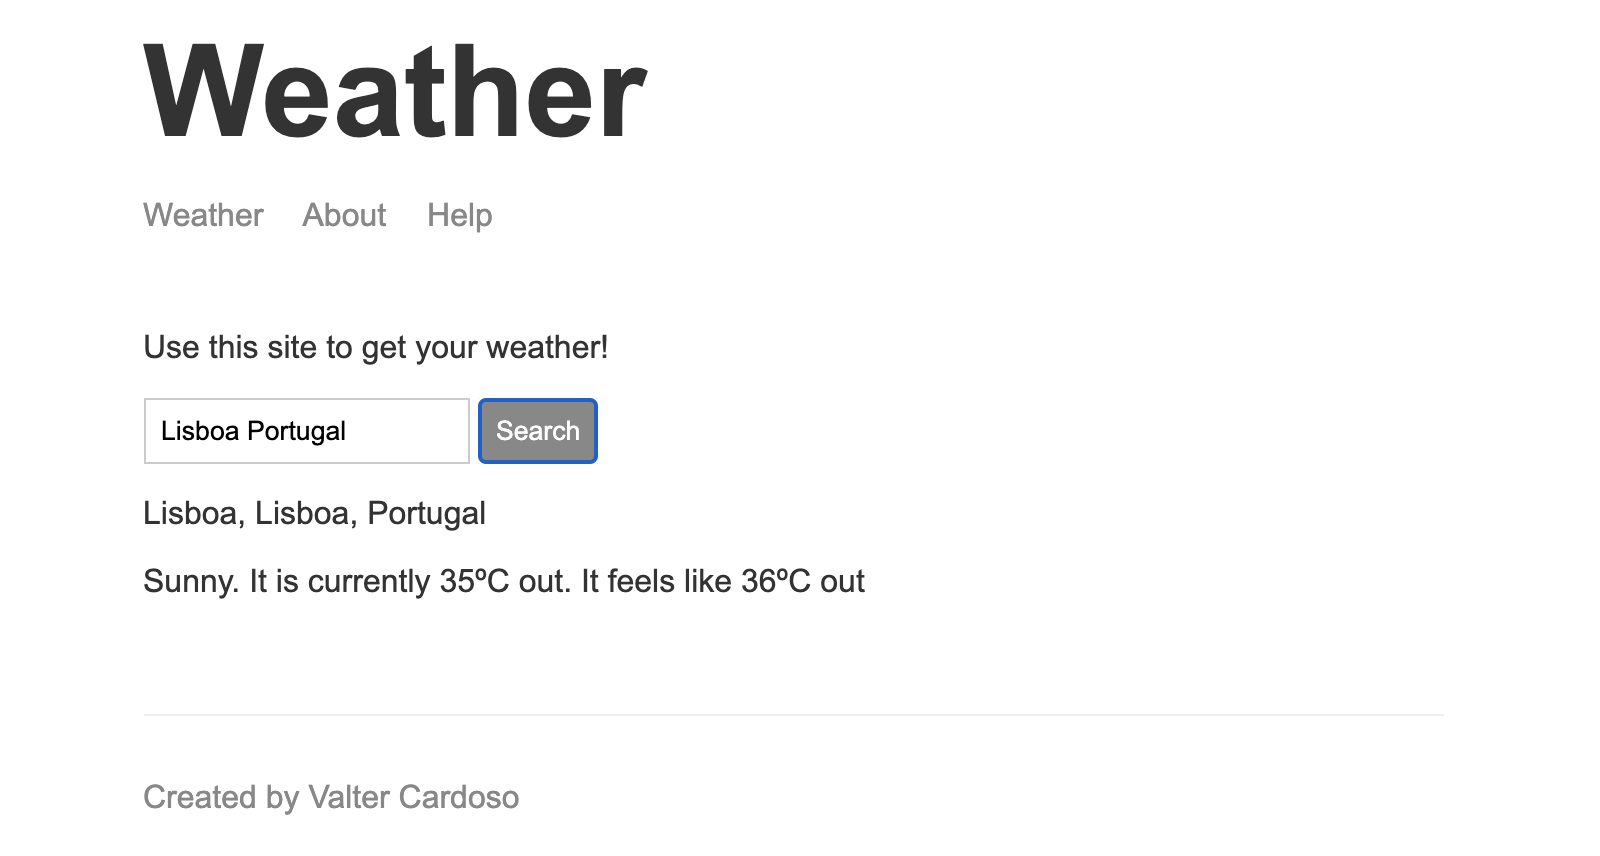
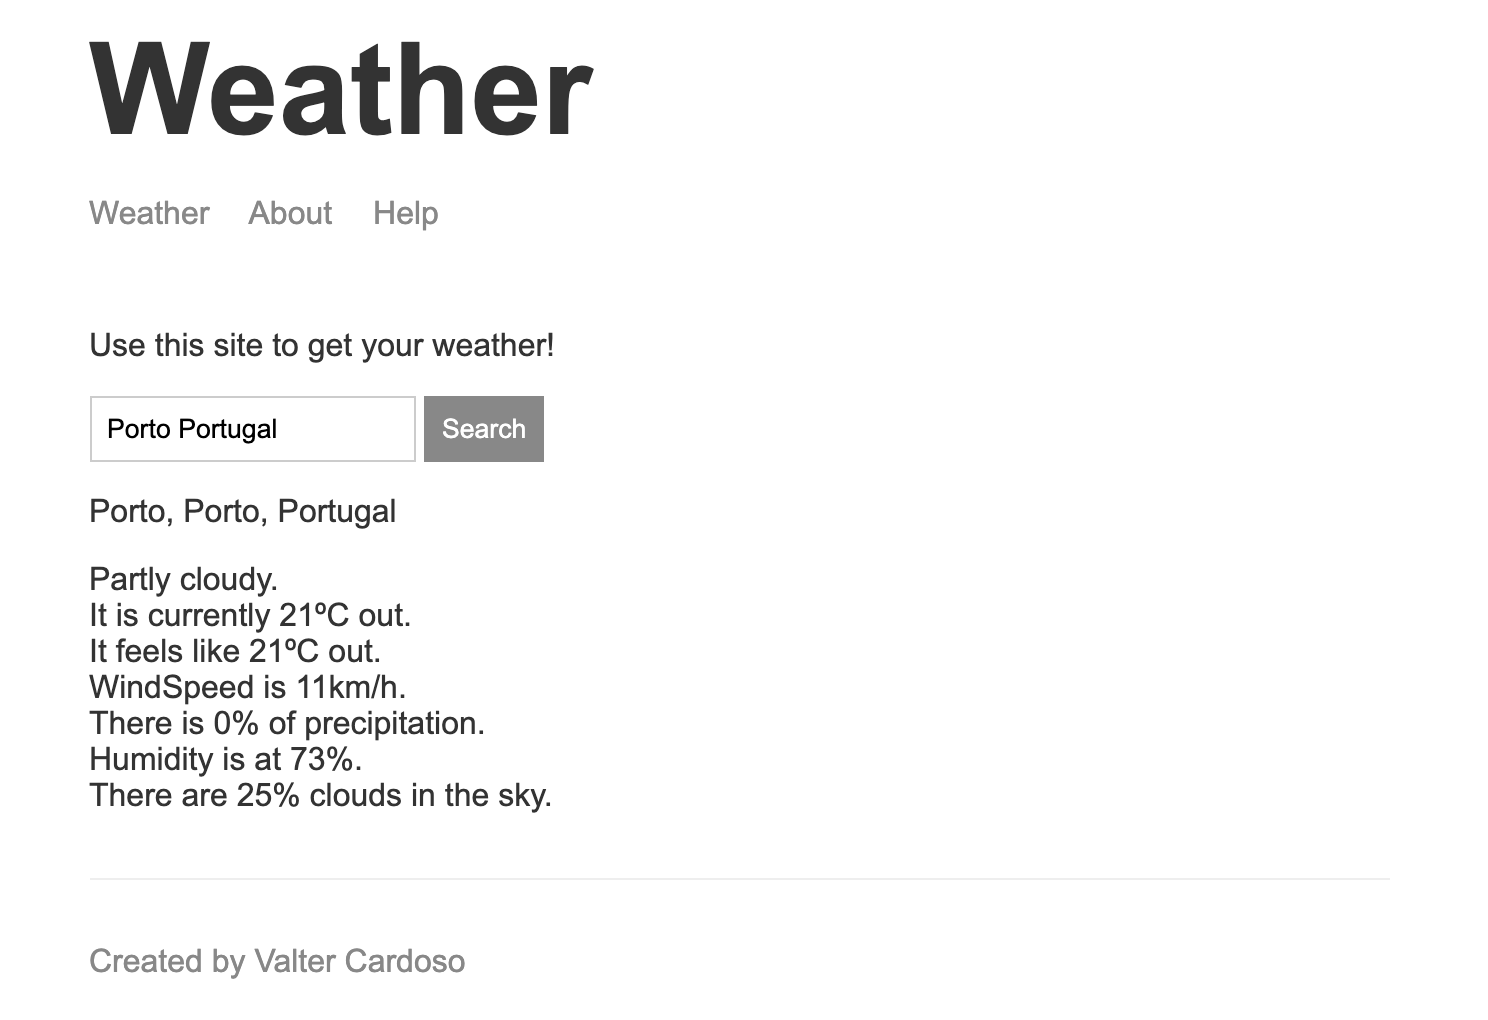
updated text format and readme

diff --git a/public/css/styles.css b/public/css/styles.css
@@ -53,3 +53,8 @@ button {
     color: white;
     padding: 8px;
 }
+
+pre {
+    color: #333333;
+    font-family: Arial, Helvetica, sans-serif;
+}

diff --git a/README.md b/README.md
@@ -21,7 +21,6 @@ The fun of this study was made possible by:
 - [Node.js Complete course](https://www.udemy.com/course/the-complete-nodejs-developer-course-2/) in [Udemy](https://www.udemy.com/)
 - [Node.js](https://nodejs.org/en/) Official Site
 - [npm](https://www.npmjs.com) Official Site
-- [npm](https://www.npmjs.com) Official Site
 - [handlebarsjs](https://handlebarsjs.com/) Official Site
 - Andrew Mead [GitHub](https://github.com/andrewjmead/node-course-v3-code) Repository and [Site](https://mead.io/)
 - All credits from this study goes to *Udemy* and the instructor *Andrew Mead*
